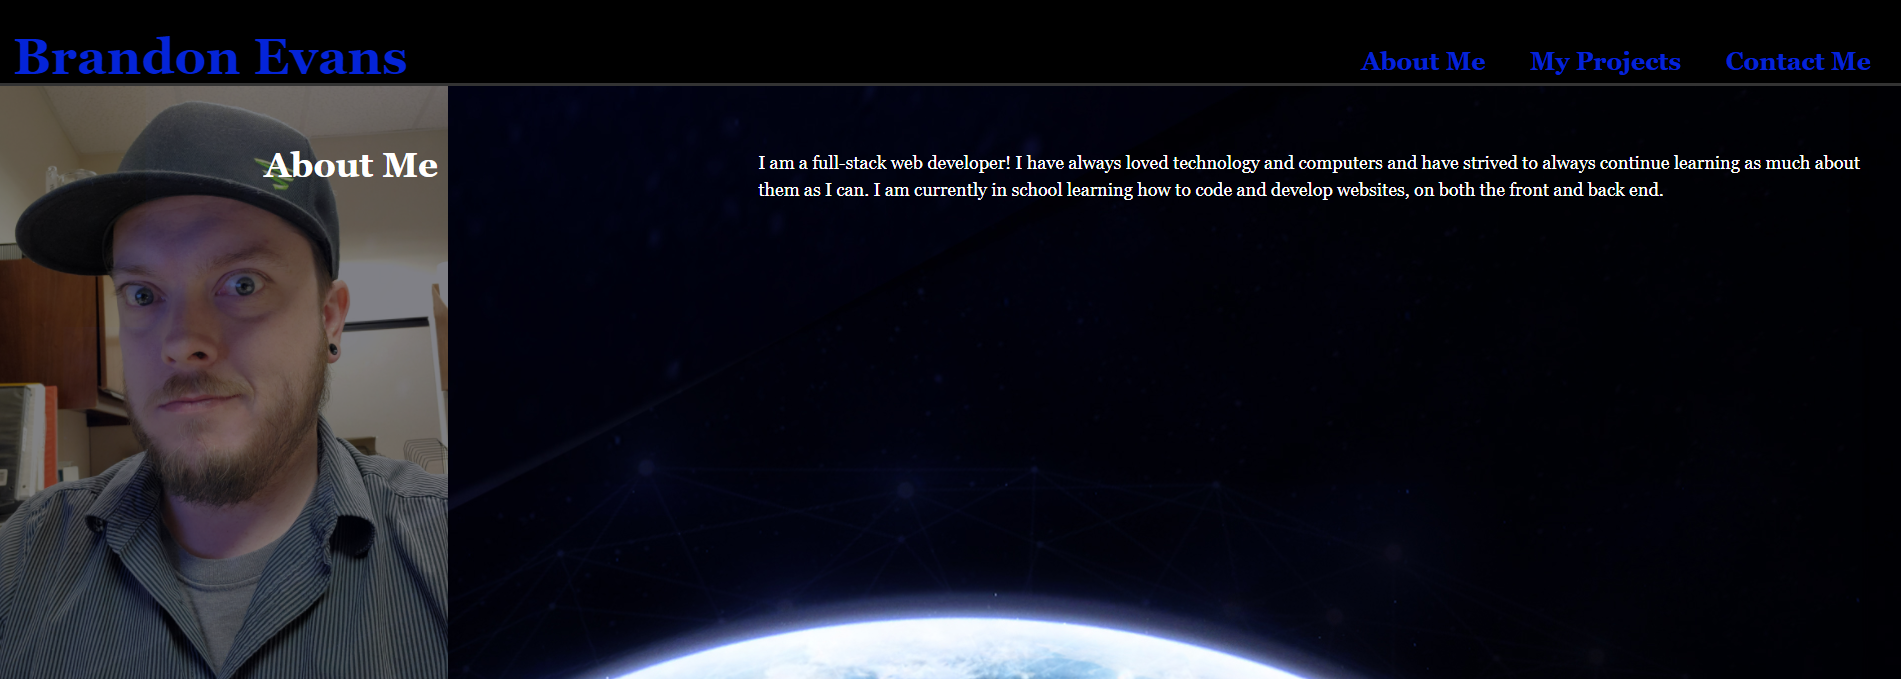
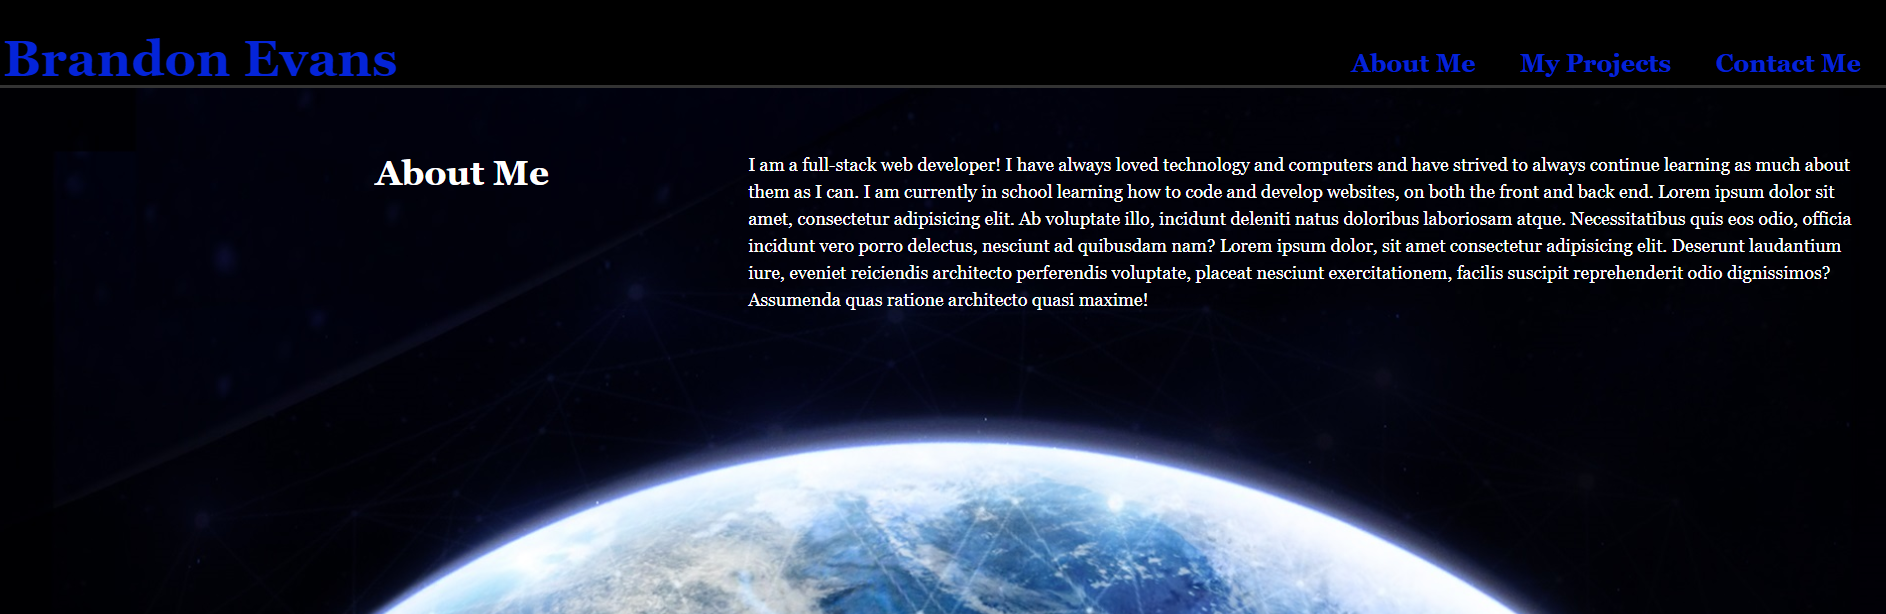
finished styling projects section

diff --git a/index.html b/index.html
@@ -35,14 +35,16 @@
       <!-- Beginning of About Me section -->
       <section class="main-bio">
          <div class="about">
-            <img src="assets/images/me.jpg" alt="Brandon Evans">
+            <!-- <img src="assets/images/me.jpg" alt="Brandon Evans"> -->
             <h2 class="about-title">
                About Me
             </h2>
          </div>
          <div class="about-text">
             <p>
-               I am a full-stack web developer! I have always loved technology and computers and have strived to always continue learning as much about them as I can. I am currently in school learning how to code and develop websites, on both the front and back end.
+               I am a full-stack web developer! I have always loved technology and computers and have strived to always continue learning as much about them as I can. I am currently in school learning how to code and develop websites, on both the front and back end. 
+               Lorem ipsum dolor sit amet, consectetur adipisicing elit. Ab voluptate illo, incidunt deleniti natus doloribus laboriosam atque. Necessitatibus quis eos odio, officia incidunt vero porro delectus, nesciunt ad quibusdam nam? 
+               Lorem ipsum dolor, sit amet consectetur adipisicing elit. Deserunt laudantium iure, eveniet reiciendis architecto perferendis voluptate, placeat nesciunt exercitationem, facilis suscipit reprehenderit odio dignissimos? Assumenda quas ratione architecto quasi maxime!
             </p>
          </div>
       </section>
@@ -50,23 +52,32 @@
 
       <!-- beginning of projects section -->
       <section class="projects">
-         <h2 class="projects-title">
-            <div>
+         <div class="projects-title">
+            <h2>
                My Projects
-            </div>
-         </h2>
+            </h2>
+         </div>
 
          <div class="project-list">
             <div class="project-main">
-               Placeholder 1
+               <!-- Project Main -->
+               <a href="https://bevans0708.github.io/Brandon-Evans/">
+                  <button>Take A Look!</button>
+               </a>
             </div>
 
             <div class="project-2">
-               Placeholder 2
+               <!-- Project 2 -->
+               <a href="https://bevans0708.github.io/run-buddy/">
+                  <button>Take A Look!</button>
+               </a>
             </div>
          
             <div class="project-3">
-                Placeholder 3
+                <!-- Project 3 -->
+                <a href="https://bevans0708.github.io/robot-gladiators/">
+                  <button>Take A Look!</button>
+               </a>
             </div>
          </div>
       </section>

diff --git a/assets/style.css b/assets/style.css
@@ -78,13 +78,13 @@ header nav ul li a {
    border-bottom-color: #333;
    border-bottom-style: solid;
    border-bottom-width: 3px;
-
+   height: 600px;
 }
 
 .about {
    position: relative;
    display: inline-block;
-
+   width: 30%;
 }
 
 .about img {
@@ -112,11 +112,86 @@ header nav ul li a {
    margin: 45px 20px 0 0;
    width: 59%;
    line-height: 1.5;
-   height: 100%;
+   height: 80%;
 }
 /* ************************* */
 /* Projects Section Styling  */
 /* ************************* */
+.projects {
+   height: 600px;
+   background-color: black;
+}
+.projects-title {
+   display: inline-block;
+   margin: 0;
+   height: 100%;
+   width: 30%;
+   text-align: right;
+}
+
+.projects-title h2 {
+   font-size: 35px;
+}
+
+.project-list {
+   float: right;
+   height: 100%;
+   width: 67%;
+}
+
+.project-main {
+   margin: 10px auto;
+   height: 45%;
+   width: 90%;
+   border-style: solid;
+   border-color: #333;
+   background-image: url(./images/Capture.jpg);
+   background-repeat: no-repeat;
+   background-size: 100%;
+}
+
+a button {
+   height: 100%;
+   width: 100%;
+   opacity: 0;
+}
+
+a button:hover {
+   height: 100%;
+   width: 100%;
+   background-color: #0424d8;
+   font-size: 20px;
+   font-weight: bold;
+   color: white;
+   opacity: 0.8;
+}
+
+.project-2 {
+   margin: 10px 0 10px 43px;
+   height: 45%;
+   width: 42%;
+   display: inline-block;
+   border-style: solid;
+   border-color: #333;
+   background-image: url(./images/run-buddy-capture.jpg);
+   background-repeat: no-repeat;
+   background-size: 100%;
+}
+
+
+
+.project-3 {
+   margin: 10px 43px 10px 0;
+   float: right;
+   height: 45%;
+   width: 42%;
+   border-style: solid;
+   border-color: #333;
+   background-image: url(./images/robot-gladiators.jpg);
+   background-repeat: no-repeat;
+   background-size: 100%;
+}
+
 
 
 
